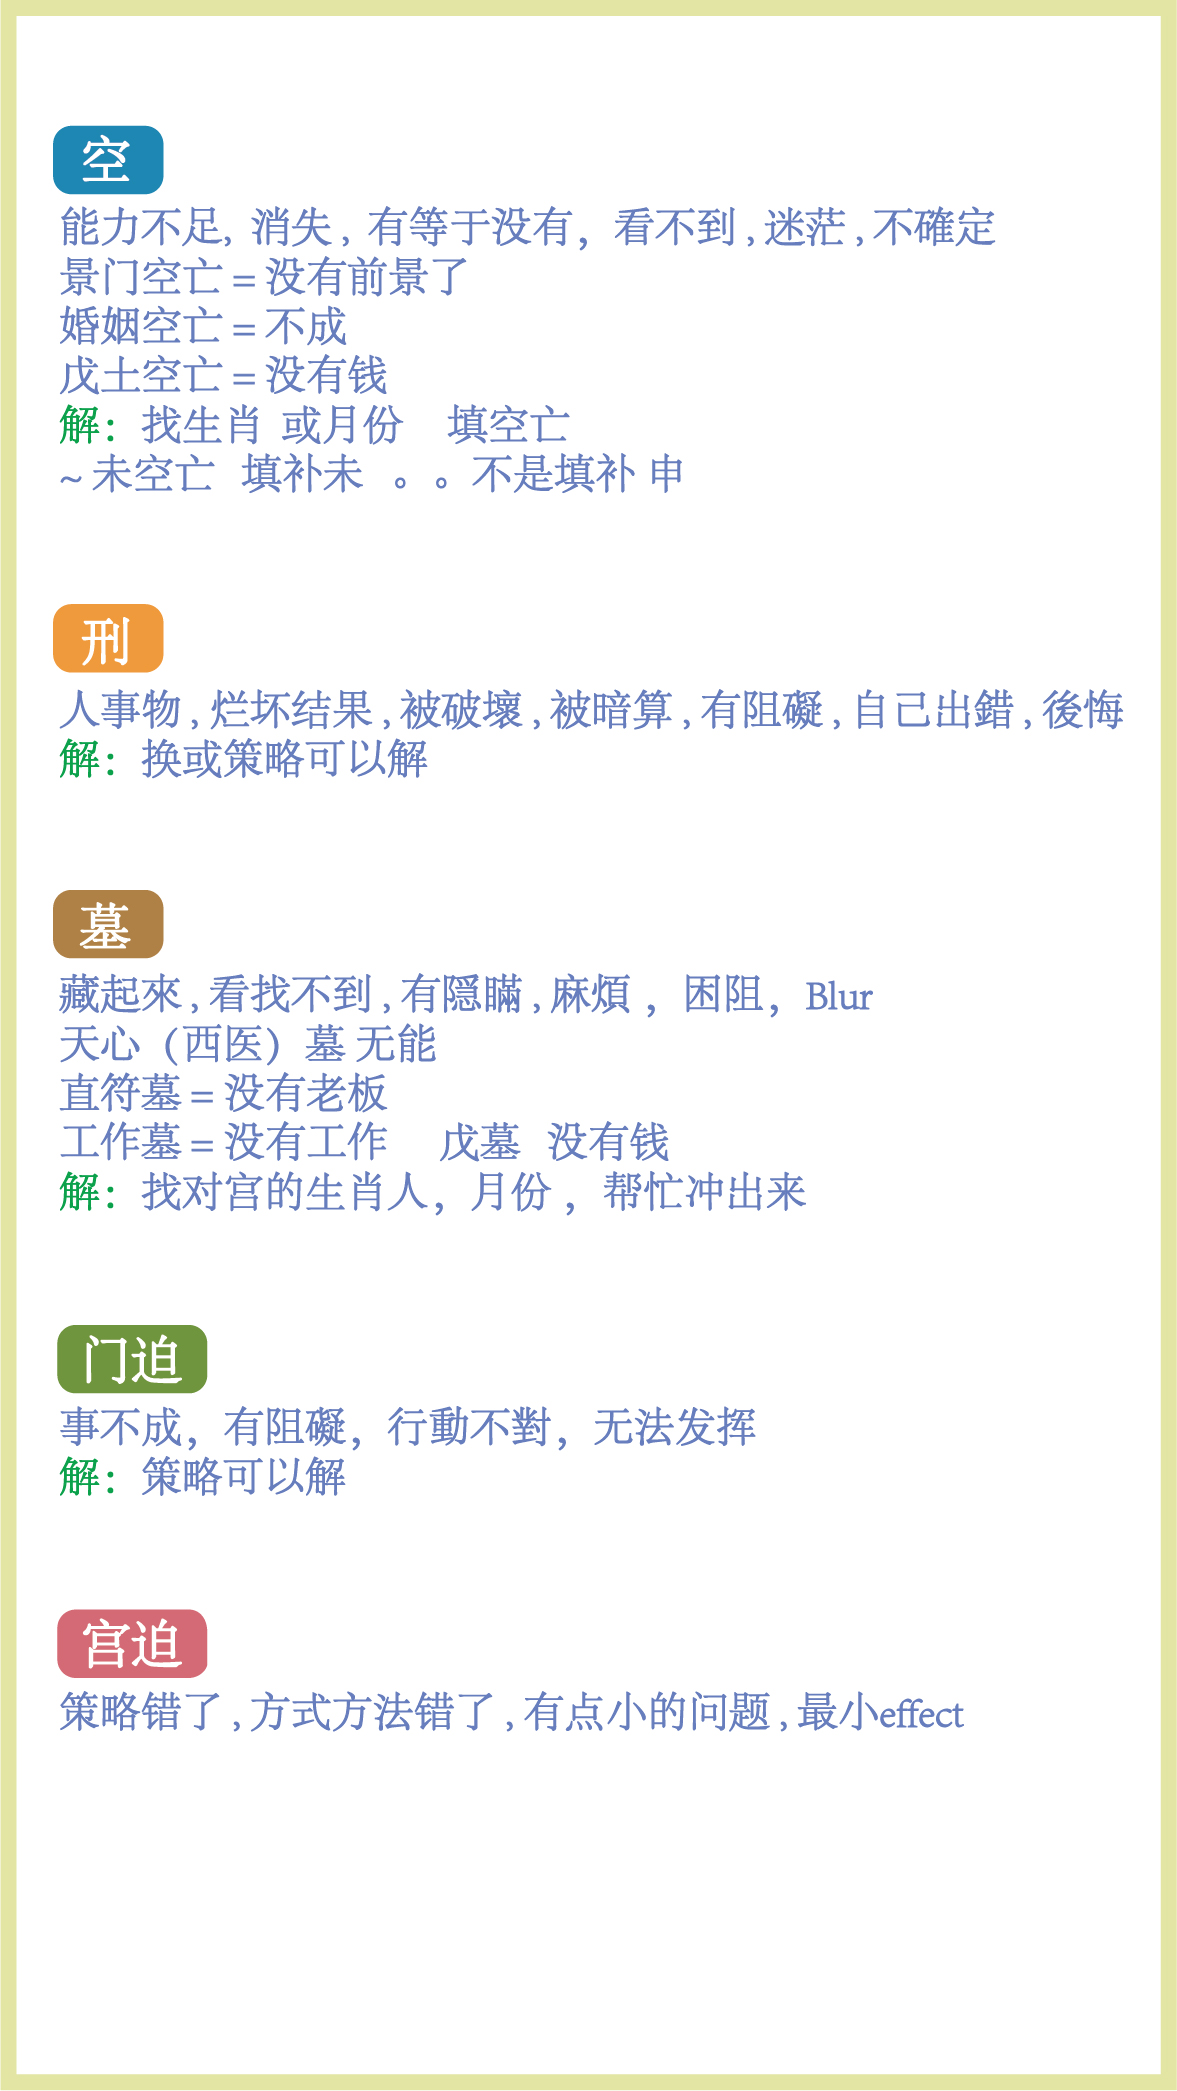
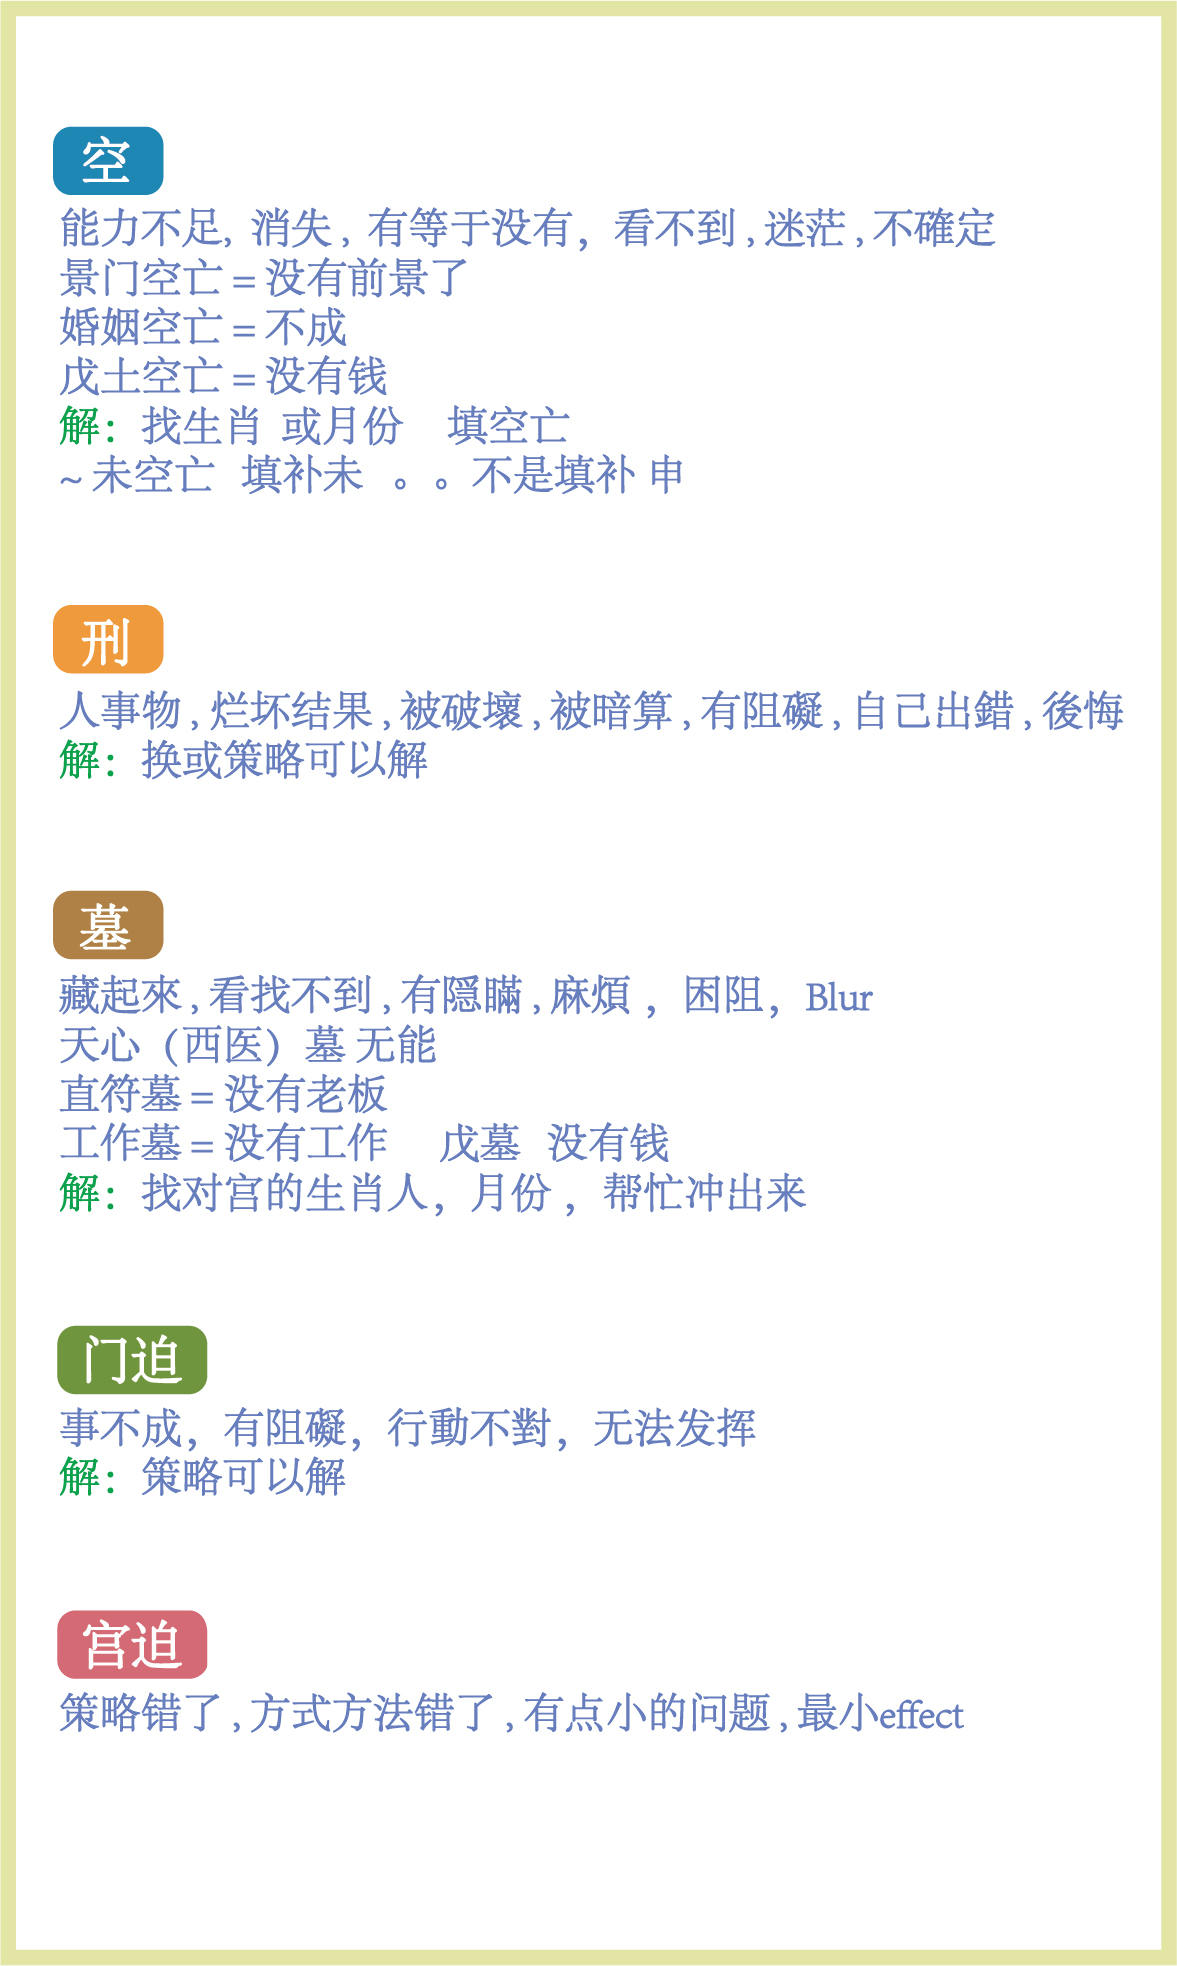
Update YongShenZhiLiao image and HTML cache buster

diff --git a/qimen/index.html b/qimen/index.html
@@ -193,10 +193,10 @@
                     <div id="yongshen-overlay" style="display: none; position: absolute; top: 0; left: 0; width: 100%; height: 100%; background: white; z-index: 10;">
                         <div id="yongshen-scroll-container" style="display: flex; overflow-x: auto; scroll-snap-type: x mandatory; width: 100%; height: 100%; -webkit-overflow-scrolling: touch; scroll-behavior: smooth;">
                             <div style="flex: 0 0 100%; scroll-snap-align: start; height: 100%; overflow-y: auto;">
-                                <img src="img/YongShenZhiLiao.jpg" style="width: 100%; height: auto; display: block;" alt="用神资料1">
+                                <img src="img/YongShenZhiLiao.jpg?v=20260801" style="width: 100%; height: auto; display: block;" alt="用神资料1">
                             </div>
                             <div style="flex: 0 0 100%; scroll-snap-align: start; height: 100%; overflow-y: auto;">
-                                <img src="img/Si Hai .jpg" style="width: 100%; height: auto; display: block;" alt="用神资料2">
+                                <img src="img/Si Hai .jpg?v=20260801" style="width: 100%; height: auto; display: block;" alt="用神资料2">
                             </div>
                         </div>
                         <div id="yongshen-nav-btn" style="position: absolute; bottom: 20px; right: 20px; background: rgba(116, 158, 71, 0.9); color: white; border-radius: 50%; width: 28px; height: 28px; display: flex; align-items: center; justify-content: center; font-size: 14px; z-index: 11; cursor: pointer; user-select: none;">
